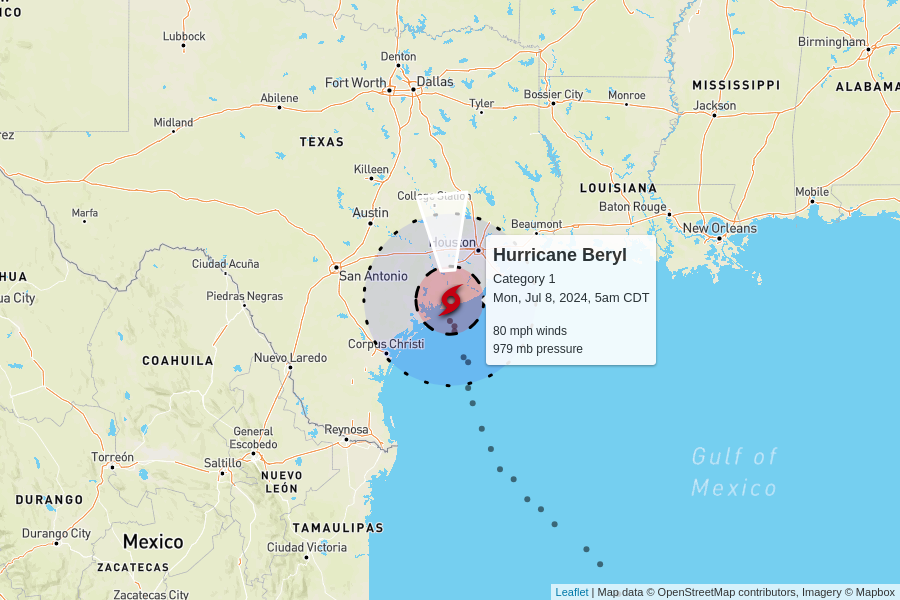
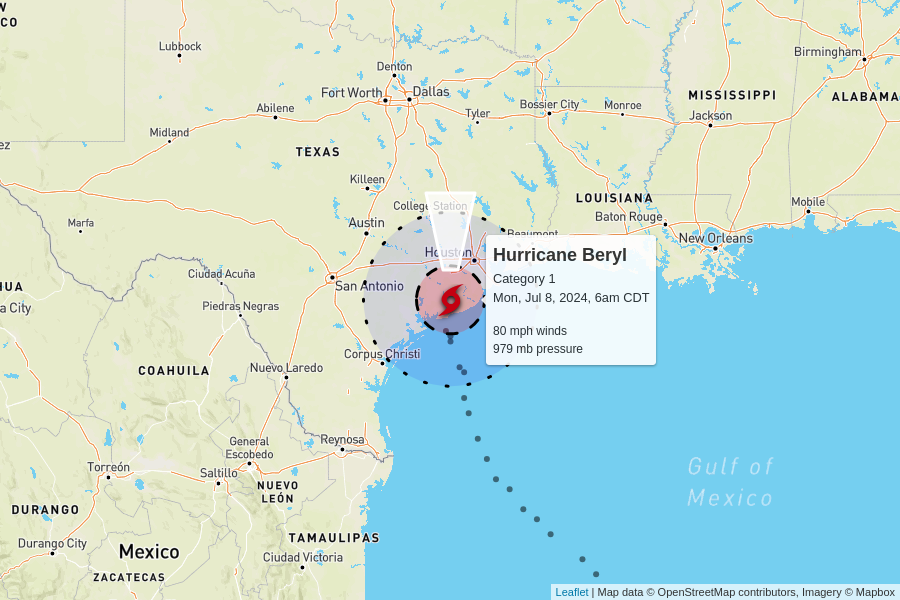
automatic update

diff --git a/docs/index.html b/docs/index.html
@@ -102,7 +102,7 @@
         <td colspan="6" class="storm category-1" >
           <h2>
             Hurricane Beryl - Category 1
-            <p class="updated">last updated <span data-time>2024-07-08T10:00:00.000Z</span></p>
+            <p class="updated">last updated <span data-time>2024-07-08T11:00:00.000Z</span></p>
           </h2>
         </td>
       </tr>
@@ -122,7 +122,7 @@
         <td>
           12 mph to the north
           <br/>
-          <span style="display: inline-block; font-size: 1.5em; transform: rotate(355deg);">↑</span>
+          <span style="display: inline-block; font-size: 1.5em; transform: rotate(360deg);">↑</span>
         </td>
         <td><a href="https://raw.githubusercontent.com/mgwalker/atlantic-hurricanes/main/data/csv/AL022024.csv">AL022024.csv</a></td>
         <td><a href="https://www.nhc.noaa.gov/archive/2024/BERYL.shtml?">NHC advisories</a></td>
